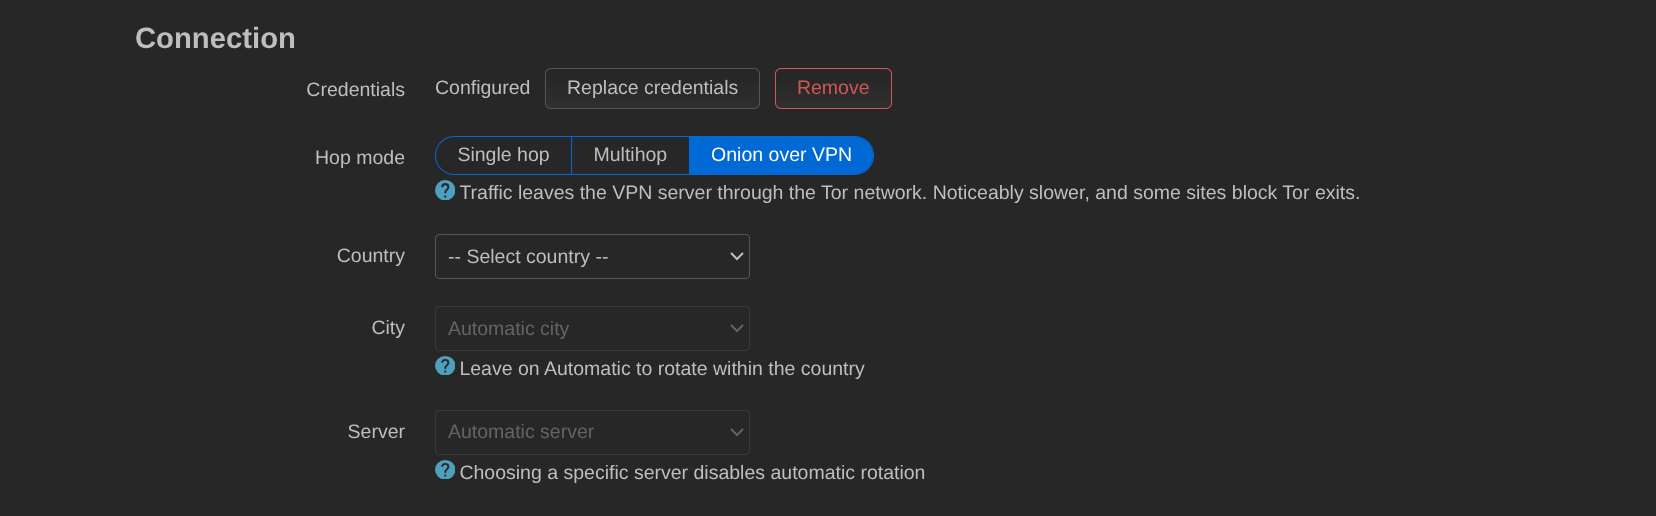
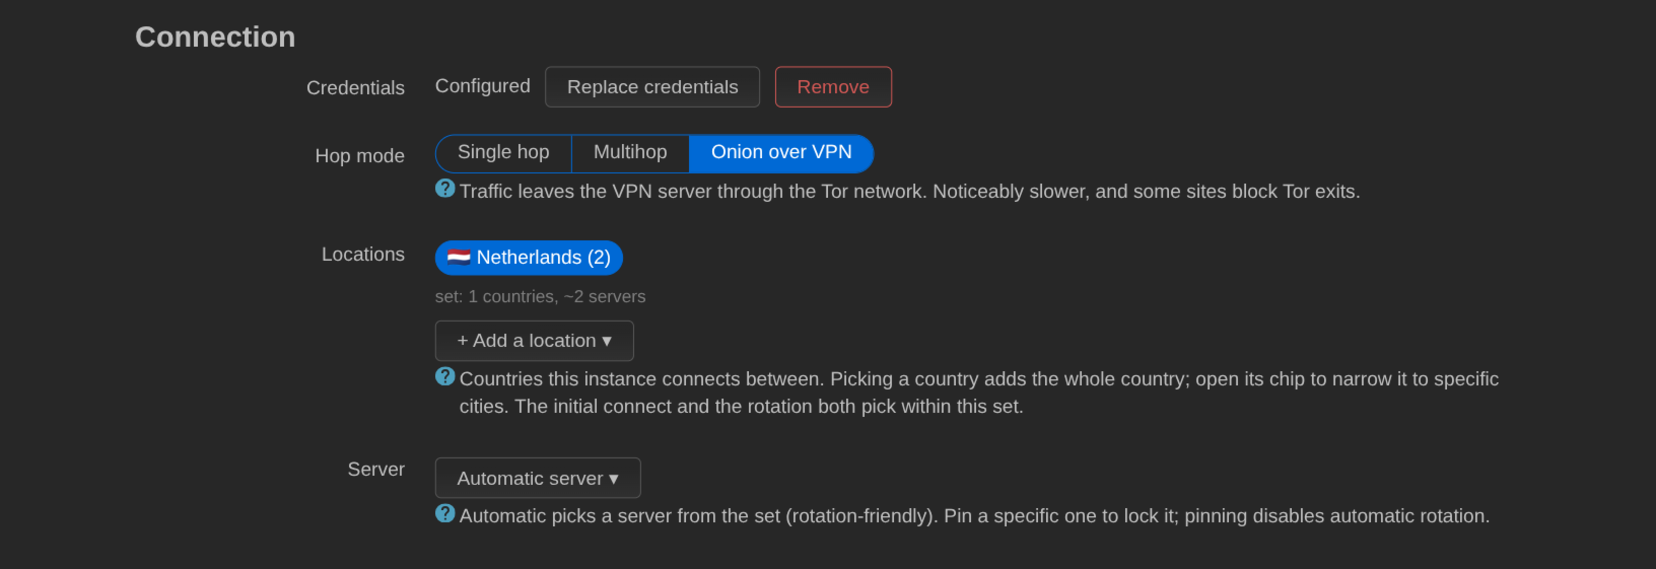
docs: document location sets and the load-aware server picker
Update the intro, Usage flow and config sample across README.md/ru/de for
the location-set model and the server picker; switch the ubus `servers`
example to the locations array. Add locations.gif and server.gif, reshoot
onion-mode.png and overview.png for the new Connection UI.

diff --git a/README.ru.md b/README.ru.md
@@ -3,8 +3,9 @@
 [English](README.md) · **Русский** · [Deutsch](README.de.md)
 
 Настройка сервиса WireGuard (NordLynx) от NordVPN на OpenWrt: одноразовый
-обмен учётными данными, выбор страны/города/сервера (включая Double VPN и
-Onion over VPN), автоматическая ротация, несколько параллельных VPN-инстансов,
+обмен учётными данными, набор локаций для подключения и ротации (страны целиком
+или отдельные города, включая Double VPN и Onion over VPN), выбор сервера с
+учётом нагрузки, автоматическая ротация, несколько параллельных VPN-инстансов,
 маршрутизация трафика по сетям с kill switch (аварийное отключение) и защитой
 от утечки IPv6, а также нативная страница LuCI.
 
@@ -144,18 +145,29 @@ apk add ./nordvpn-wireguard-*.apk ./luci-app-nordvpn-*.apk   # 25.x / snapshots
 
    ![Режим Onion over VPN](docs/screenshots/onion-mode.png)
 
-4. Выберите **Country** (Страна, обязательно), при желании **City** (Город) и
-   **Server** (Сервер). Названия стран сопровождаются эмодзи-флагами (обычные
-   названия на системах без глифов флагов). Оставьте City и Server в положении
-   *Automatic*, чтобы ротировать внутри страны.
-5. При желании включите **Automatic rotation** (Автоматическую ротацию) и
+4. Соберите **набор локаций** (location set) — страны (и при желании отдельные
+   города), между которыми этот инстанс подключается и ротирует. Выбор страны
+   добавляет её целиком; откройте её чип, чтобы сузить до конкретных городов. И
+   первичное подключение, и ротация выбирают внутри этого набора.
+
+   ![Выбор локаций](docs/screenshots/locations.gif)
+
+5. Оставьте **Server** (Сервер) в положении *Automatic* (рекомендуется), чтобы
+   выбор делала ротация, или откройте пикер и закрепите конкретный сервер.
+   Список сгруппирован по странам и отсортирован по нагрузке, есть выбор в один
+   клик **Lowest load** (Минимальная нагрузка). Закрепление сервера отключает
+   автоматическую ротацию.
+
+   ![Выбор сервера](docs/screenshots/server.gif)
+
+6. При желании включите **Automatic rotation** (Автоматическую ротацию) и
    расписание. Когда ротация активна, страница показывает конкретное время
    **Next rotation** (Следующая ротация; запланировано роутером, отображается в
    местном часовом поясе вашего браузера).
 
    ![Автоматическая ротация](docs/screenshots/rotation.png)
 
-6. Нажмите **Save and reconnect** (Сохранить и переподключиться).
+7. Нажмите **Save and reconnect** (Сохранить и переподключиться).
 
 Получить токен можно на
 <https://my.nordaccount.com/dashboard/nordvpn/manual-configuration/> →
@@ -178,8 +190,10 @@ config instance 'main'
 	option routing_table ''
 	option mtu ''                     # пусто = дефолт 1420; UI советует WAN-80
 	option hop_mode 'single'          # 'multihop' (Double VPN) / 'onion' (via Tor)
-	option country_code 'ee'
-	option city_code 'ee-tallinn'
+	option country_code 'ee'         # легаси-фолбэк на одну страну, только когда
+	option city_code 'ee-tallinn'    #   'locations' ниже пуст
+	list locations 'ee'              # набор локаций: страны и/или 'cc-city',
+	list locations 'nl-amsterdam'    #   задаёт и подключение, и ротацию
 	option fixed_server ''            # pin a gateway; disables rotation
 	option rotation_enabled '0'
 	option rotation_mode 'interval'  # or 'time'
@@ -224,7 +238,7 @@ ubus call nordvpn external_ip       # public IP as seen through the tunnel
 ubus call nordvpn disconnect        # take the tunnel down, pause rotation
 ubus call nordvpn clear_credentials # forget the stored WireGuard key
 ubus call nordvpn locations         # cached country/city tree (+ per-city counts)
-ubus call nordvpn servers '{"country":"de","city":"de-berlin","hop_mode":"single"}'
+ubus call nordvpn servers '{"locations":["de","nl-amsterdam"],"hop_mode":"single"}'
 ubus call nordvpn refresh_status    # cache-refresh job progress
 ubus call nordvpn set_credentials '{"token":"<64-hex-token>"}'
 ubus call nordvpn apply             # rebuild the peer and bring the tunnel up

diff --git a/README.de.md b/README.de.md
@@ -3,9 +3,10 @@
 [English](README.md) · [Русский](README.ru.md) · **Deutsch**
 
 Richtet den WireGuard-Dienst (NordLynx) von NordVPN unter OpenWrt ein — mit
-einmaligem Zugangsdaten-Austausch, Auswahl von Land/Stadt/Server (einschließlich
-Double VPN und Onion over VPN), automatischer Rotation, mehreren parallelen
-VPN-Instanzen, netzweiser Traffic-Steuerung mit Kill Switch und
+einmaligem Zugangsdaten-Austausch, einem Standort-Set zum Verbinden und Rotieren
+(ganze Länder oder einzelne Städte, einschließlich Double VPN und Onion over
+VPN), einer lastbewussten Server-Auswahl, automatischer Rotation, mehreren
+parallelen VPN-Instanzen, netzweiser Traffic-Steuerung mit Kill Switch und
 IPv6-Leck-Schutz sowie einer nativen LuCI-Seite.
 
 > **Inoffiziell.** Dieses Projekt ist weder mit Nord Security verbunden noch
@@ -146,16 +147,29 @@ CLI-Dienst; füge `luci-app-nordvpn` für die Weboberfläche hinzu.
 
    ![Onion-over-VPN-Modus](docs/screenshots/onion-mode.png)
 
-4. Wähle **Land** (erforderlich), optional **Stadt** und **Server**. Ländernamen
-   tragen Emoji-Flaggen (schlichte Namen auf Systemen ohne Flaggen-Glyphen).
-   Lass Stadt und Server auf *Automatisch*, um innerhalb des Landes zu rotieren.
-5. Aktiviere optional **Automatische Rotation** und einen Zeitplan. Bei aktiver
+4. Stelle ein **Standort-Set** (location set) zusammen — die Länder (und
+   optional einzelne Städte), zwischen denen diese Instanz verbindet und
+   rotiert. Ein Land auszuwählen fügt es ganz hinzu; öffne seinen Chip, um es auf
+   bestimmte Städte einzugrenzen. Sowohl die erste Verbindung als auch die
+   Rotation wählen innerhalb dieses Sets.
+
+   ![Standorte wählen](docs/screenshots/locations.gif)
+
+5. Lass **Server** auf *Automatisch* (empfohlen), damit die Rotation wählt, oder
+   öffne die Auswahl, um einen bestimmten Server festzupinnen. Die Liste ist nach
+   Land gruppiert und nach Last sortiert, mit einem Ein-Klick-**Lowest load**
+   (geringste Last). Einen Server festzupinnen deaktiviert die automatische
+   Rotation.
+
+   ![Server wählen](docs/screenshots/server.gif)
+
+6. Aktiviere optional **Automatische Rotation** und einen Zeitplan. Bei aktiver
    Rotation zeigt die Seite die konkrete **Nächste Rotation** an
    (router-geplant, angezeigt in der lokalen Zeitzone deines Browsers).
 
    ![Automatische Rotation](docs/screenshots/rotation.png)
 
-6. Klicke auf **Speichern und neu verbinden** (Save and reconnect).
+7. Klicke auf **Speichern und neu verbinden** (Save and reconnect).
 
 Einen Token bekommst du unter
 <https://my.nordaccount.com/dashboard/nordvpn/manual-configuration/> →
@@ -179,8 +193,10 @@ config instance 'main'
 	option routing_table ''
 	option mtu ''                     # leer = Standard 1420; UI empfiehlt WAN-80
 	option hop_mode 'single'          # 'multihop' (Double VPN) / 'onion' (via Tor)
-	option country_code 'ee'
-	option city_code 'ee-tallinn'
+	option country_code 'ee'         # Legacy-Fallback auf ein Land, nur wenn
+	option city_code 'ee-tallinn'    #   'locations' unten leer ist
+	list locations 'ee'              # Standort-Set: Länder und/oder 'cc-city',
+	list locations 'nl-amsterdam'    #   steuert Verbindung und Rotation
 	option fixed_server ''            # pin a gateway; disables rotation
 	option rotation_enabled '0'
 	option rotation_mode 'interval'  # or 'time'
@@ -226,7 +242,7 @@ ubus call nordvpn external_ip       # public IP as seen through the tunnel
 ubus call nordvpn disconnect        # take the tunnel down, pause rotation
 ubus call nordvpn clear_credentials # forget the stored WireGuard key
 ubus call nordvpn locations         # cached country/city tree (+ per-city counts)
-ubus call nordvpn servers '{"country":"de","city":"de-berlin","hop_mode":"single"}'
+ubus call nordvpn servers '{"locations":["de","nl-amsterdam"],"hop_mode":"single"}'
 ubus call nordvpn refresh_status    # cache-refresh job progress
 ubus call nordvpn set_credentials '{"token":"<64-hex-token>"}'
 ubus call nordvpn apply             # rebuild the peer and bring the tunnel up

diff --git a/README.md b/README.md
@@ -3,8 +3,9 @@
 **English** · [Русский](README.ru.md) · [Deutsch](README.de.md)
 
 Configure NordVPN's WireGuard (NordLynx) service on OpenWrt, with a one-time
-credential exchange, country/city/server selection (including Double VPN and
-Onion over VPN), automatic rotation, multiple parallel VPN instances,
+credential exchange, a location set to connect and rotate across (whole
+countries or specific cities, including Double VPN and Onion over VPN), a
+load-aware server picker, automatic rotation, multiple parallel VPN instances,
 per-network traffic steering with kill switch and IPv6 leak protection, and a
 native LuCI page.
 
@@ -141,16 +142,27 @@ Installing `nordvpn-wireguard` alone gives a working CLI/service; add
 
    ![Onion over VPN mode](docs/screenshots/onion-mode.png)
 
-4. Pick **Country** (required), optionally **City** and **Server**. Country
-   names carry emoji flags (plain names on systems without flag glyphs). Leave
-   City and Server on *Automatic* to rotate within the country.
-5. Optionally enable **Automatic rotation** and a schedule. When rotation is
+4. Build a **location set** — the countries (and optionally specific cities)
+   this instance connects and rotates across. Pick a country to add the whole
+   country; open its chip to narrow it to specific cities. Both the initial
+   connect and the rotation pick within this set.
+
+   ![Choosing locations](docs/screenshots/locations.gif)
+
+5. Leave **Server** on *Automatic* (recommended) to let rotation choose, or open
+   the picker to pin a specific server. The list is grouped by country and
+   sorted by load, with a one-click **Lowest load**. Pinning a server disables
+   automatic rotation.
+
+   ![Picking a server](docs/screenshots/server.gif)
+
+6. Optionally enable **Automatic rotation** and a schedule. When rotation is
    active the page shows the concrete **Next rotation** time (router-scheduled,
    shown in your browser's local time zone).
 
    ![Automatic rotation](docs/screenshots/rotation.png)
 
-6. Click **Save and reconnect**.
+7. Click **Save and reconnect**.
 
 Get a token at
 <https://my.nordaccount.com/dashboard/nordvpn/manual-configuration/> →
@@ -172,8 +184,10 @@ config instance 'main'
 	option routing_table ''
 	option mtu ''                     # empty = default 1420; UI recommends WAN-80
 	option hop_mode 'single'          # 'multihop' (Double VPN) / 'onion' (via Tor)
-	option country_code 'ee'
-	option city_code 'ee-tallinn'
+	option country_code 'ee'         # legacy single-country fallback, used only
+	option city_code 'ee-tallinn'    #   when 'locations' below is empty
+	list locations 'ee'              # location set: countries and/or 'cc-city',
+	list locations 'nl-amsterdam'    #   drives both the connect and the rotation
 	option fixed_server ''            # pin a gateway; disables rotation
 	option rotation_enabled '0'
 	option rotation_mode 'interval'  # or 'time'
@@ -217,7 +231,7 @@ ubus call nordvpn external_ip       # public IP as seen through the tunnel
 ubus call nordvpn disconnect        # take the tunnel down, pause rotation
 ubus call nordvpn clear_credentials # forget the stored WireGuard key
 ubus call nordvpn locations         # cached country/city tree (+ per-city counts)
-ubus call nordvpn servers '{"country":"de","city":"de-berlin","hop_mode":"single"}'
+ubus call nordvpn servers '{"locations":["de","nl-amsterdam"],"hop_mode":"single"}'
 ubus call nordvpn refresh_status    # cache-refresh job progress
 ubus call nordvpn set_credentials '{"token":"<64-hex-token>"}'
 ubus call nordvpn apply             # rebuild the peer and bring the tunnel up
